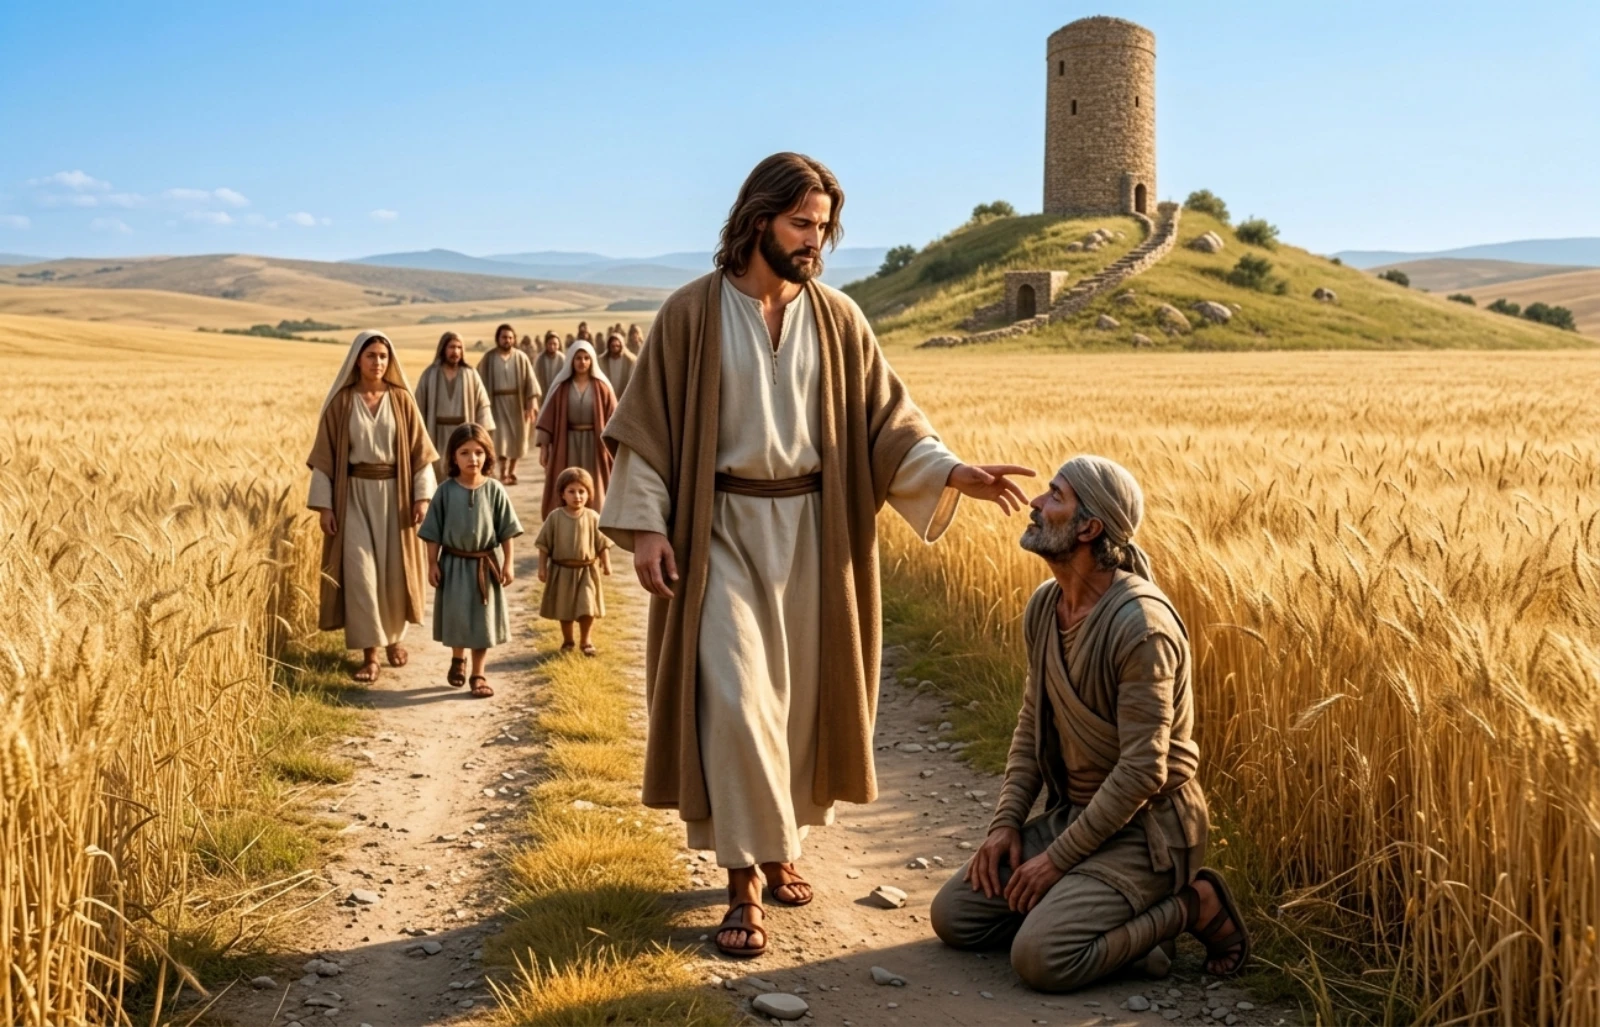
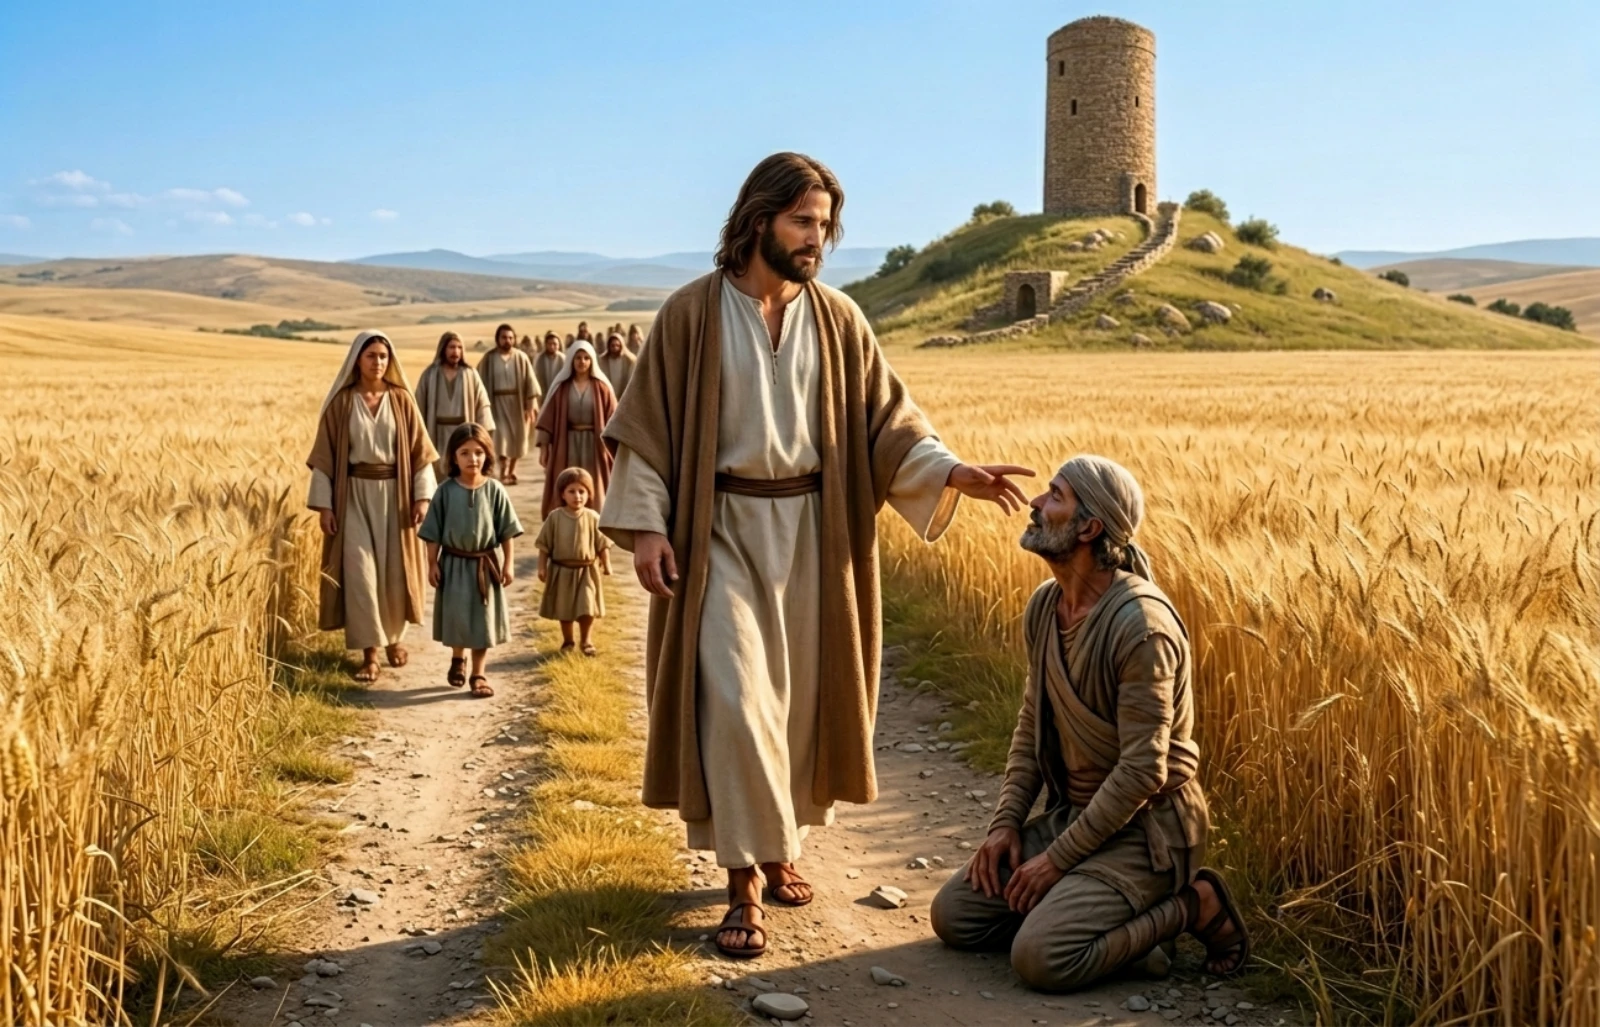
commit new images

Changed region(s): [[0.4688, 0.1558, 0.5312, 0.2804]]

diff --git a/ART_PAGES.md b/ART_PAGES.md
@@ -37,15 +37,15 @@ Page 1 of every chapter always has an art slot, which shows a placeholder until 
 | `ch08` | Chapter 8, page 1 of 3 | Inside my walls the child was sleeping. Out in… | `ShepherdsAngel.webp` |
 | `ch08-2` | Chapter 8, page 2 of 3 | Luke 2:10-12 (ESV) “Fear not, for behold, I bring… |  |
 | `ch08-3` | Chapter 8, page 3 of 3 | Luke 2:14 (ESV) “Glory to God in the highest,… | `ShepherdsAngels.webp` |
-| `ch09` | Chapter 9, page 1 of 4 | Then suddenly the silence broke, The shepherds scampered to… |  |
+| `ch09` | Chapter 9, page 1 of 4 | Then suddenly the silence broke, The shepherds scampered to… | `shepherdsheadingtower.webp` |
 | `ch09-2` | Chapter 9, page 2 of 4 | They stepped inside and found Him, wrapped in swaddling… | `ShepherdsBaby.webp` |
-| `ch09-3` | Chapter 9, page 3 of 4 | Isaiah 9:6 (ESV) For to us a child is… | `ShepherdsPraising.webp` |
-| `ch09-4` | Chapter 9, page 4 of 4 | They could not hold it in, they went back… |  |
+| `ch09-3` | Chapter 9, page 3 of 4 | Isaiah 9:6 (ESV) For to us a child is… |  |
+| `ch09-4` | Chapter 9, page 4 of 4 | They could not hold it in, they went back… | `ShepherdsPraising.webp` |
 | `ch10` | Chapter 10, page 1 of 4 | Many years went by after the night the child… | `JesusLeper.webp` |
 | `ch10-2` | Chapter 10, page 2 of 4 | Matthew 8:1-3 (ESV) When he came down from the… |  |
 | `ch10-3` | Chapter 10, page 3 of 4 | “He touched him,” a woman said. “Look at his… |  |
 | `ch10-4` | Chapter 10, page 4 of 4 | John 10:10-11, 14-16 (ESV) “The thief comes only to… | `Jesussheep.webp` |
-| `ch11` | Chapter 11, page 1 of 5 | The seasons turned over me again and again after… | `Jesusdonkey.webp` |
+| `ch11` | Chapter 11, page 1 of 5 | The seasons turned over me again and again after… | `Jesusdonkeytower.webp` |
 | `ch11-2` | Chapter 11, page 2 of 5 | The very stones. I have been one of those… |  |
 | `ch11-3` | Chapter 11, page 3 of 5 | I learned the rest, from the people who came… |  |
 | `ch11-4` | Chapter 11, page 4 of 5 | Three days later, He walked out of a grave.… |  |

diff --git a/content/christmas-tower-v11.md b/content/christmas-tower-v11.md
@@ -424,7 +424,7 @@ The Master Stonemason walked over to him. He reached out His hand, and He touche
 
 *\"Look at his skin. Look at his face.\"*
 
-*"Who is this man?"*
+*\"Who is this man?\"*
 
 *\"Jesus,\"* someone answered. *\"Jesus of Nazareth.\"*
 
